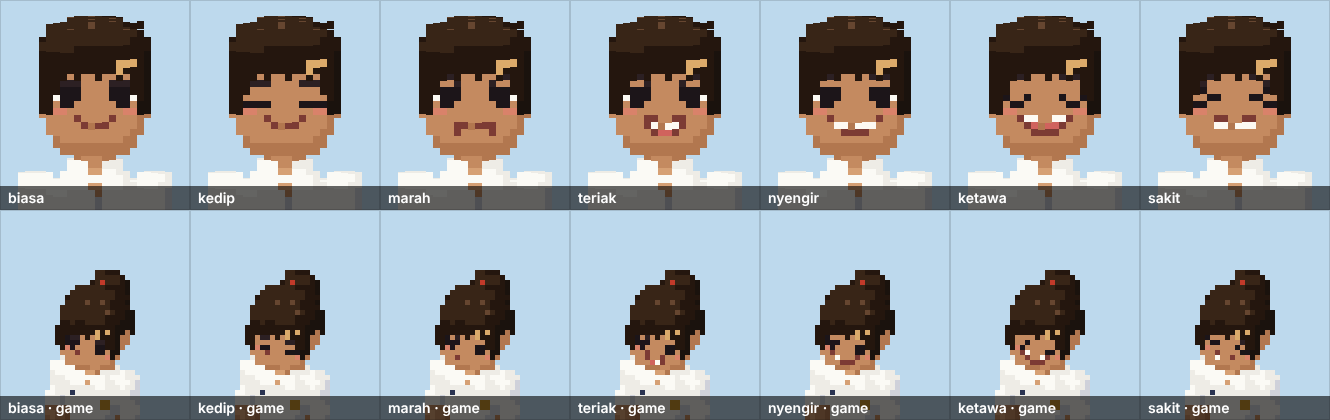
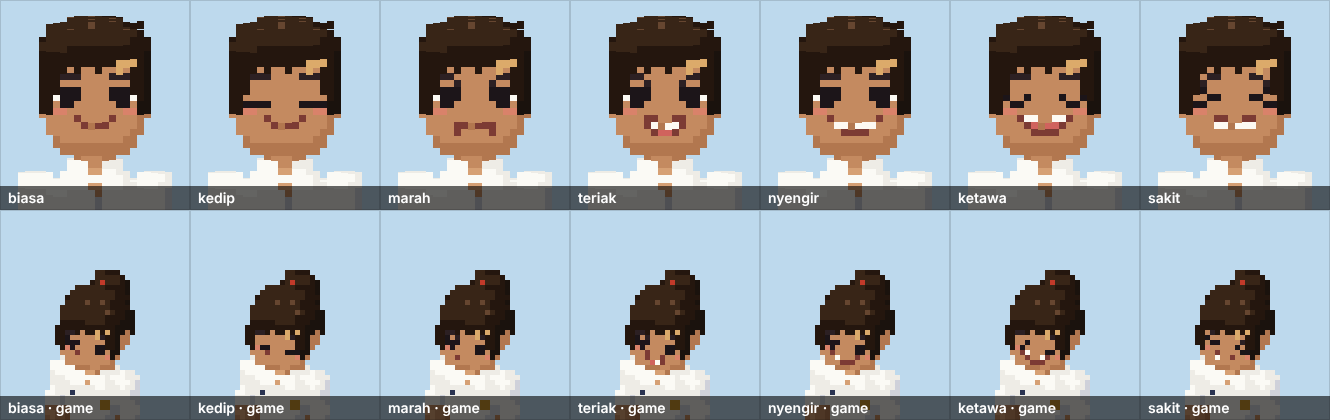
Laras: one empty row between brows and eyes
Brows sat directly on top of the eyes and read as one thick brow. Moved
them up a row and raised the bangs so the brow row stays visible. Added
the spacing rule to PANDUAN-TOKOH.md.

Claude-Session: https://claude.ai/code/session_01WWrFmMTNqpdmTQwapYwS1X

diff --git a/tokoh-voxel/src/laras.js b/tokoh-voxel/src/laras.js
@@ -28,8 +28,8 @@ const F0 = '..............';
 const F = (brow, eyes, mid, mouth) => [F0, F0, F0, ...brow, ...eyes, mid, ...mouth, F0, F0];
 const CH = '.rr........rr.';
 export const FACES = {
-  biasa: F(['..............', '..BBB....BBB..'], ['.KKKK....KKKK.', '.WKKK....KKKW.', '..KK......KK..'], CH, ['....m....m....', '.....mmmm.....', '..............']),
-  kedip: F(['..............', '..BBB....BBB..'], ['..............', '..............', '.KKKK....KKKK.'], CH, ['....m....m....', '.....mmmm.....', '..............']),
+  biasa: F(['..BBB....BBB..', '..............'], ['.KKKK....KKKK.', '.WKKK....KKKW.', '..KK......KK..'], CH, ['....m....m....', '.....mmmm.....', '..............']),
+  kedip: F(['..BBB....BBB..', '..............'], ['..............', '..............', '.KKKK....KKKK.'], CH, ['....m....m....', '.....mmmm.....', '..............']),
   marah: F(['..BB......BB..', '....B....B....'], ['.KKKK....KKKK.', '.WKKK....KKKW.', '..KK......KK..'], CH, ['..............', '....mmmmmm....', '....m....m....']),
   teriak: F(['..BB......BB..', '....B....B....'], ['.KKKK....KKKK.', '.WKKK....KKKW.', '..KK......KK..'], CH, ['....mmmmmm....', '....mTTgTm....', '.....mttm.....']),
   nyengir: F(['..BBB....BBB..', '..............'], ['.KKKK....KKKK.', '.WKKK....KKKW.', '..KK......KK..'], CH, ['...m......m...', '....TTgTTT....', '.....mmmm.....']),
@@ -38,7 +38,7 @@ export const FACES = {
 };
 export const EXPRS = Object.keys(FACES);
 
-const FR = [6, 9, 11, 12, 11, 12, 12, 11, 12, 12, 11, 12, 9, 6];   // poni pendek berantakan
+const FR = [6, 9, 12, 13, 12, 13, 13, 12, 13, 13, 12, 13, 9, 6];   // poni pendek berantakan, cukup tinggi supaya alis + jarak ke mata kelihatan
 const topZ = (v, x, y) => { for (let z = 24; z >= -20; z--) if (v.has(x, y, z)) return z; return null; };
 function head(o) {
   const v = new Vox();

diff --git a/tokoh-voxel/raka_voxel.html b/tokoh-voxel/raka_voxel.html
@@ -2900,8 +2900,8 @@ const F0 = '..............';
 const F = (brow, eyes, mid, mouth) => [F0, F0, F0, ...brow, ...eyes, mid, ...mouth, F0, F0];
 const CH = '.rr........rr.';
 const FACES = {
-  biasa: F(['..............', '..BBB....BBB..'], ['.KKKK....KKKK.', '.WKKK....KKKW.', '..KK......KK..'], CH, ['....m....m....', '.....mmmm.....', '..............']),
-  kedip: F(['..............', '..BBB....BBB..'], ['..............', '..............', '.KKKK....KKKK.'], CH, ['....m....m....', '.....mmmm.....', '..............']),
+  biasa: F(['..BBB....BBB..', '..............'], ['.KKKK....KKKK.', '.WKKK....KKKW.', '..KK......KK..'], CH, ['....m....m....', '.....mmmm.....', '..............']),
+  kedip: F(['..BBB....BBB..', '..............'], ['..............', '..............', '.KKKK....KKKK.'], CH, ['....m....m....', '.....mmmm.....', '..............']),
   marah: F(['..BB......BB..', '....B....B....'], ['.KKKK....KKKK.', '.WKKK....KKKW.', '..KK......KK..'], CH, ['..............', '....mmmmmm....', '....m....m....']),
   teriak: F(['..BB......BB..', '....B....B....'], ['.KKKK....KKKK.', '.WKKK....KKKW.', '..KK......KK..'], CH, ['....mmmmmm....', '....mTTgTm....', '.....mttm.....']),
   nyengir: F(['..BBB....BBB..', '..............'], ['.KKKK....KKKK.', '.WKKK....KKKW.', '..KK......KK..'], CH, ['...m......m...', '....TTgTTT....', '.....mmmm.....']),
@@ -2910,7 +2910,7 @@ const FACES = {
 };
 const EXPRS = Object.keys(FACES);
 
-const FR = [6, 9, 11, 12, 11, 12, 12, 11, 12, 12, 11, 12, 9, 6];   // poni pendek berantakan
+const FR = [6, 9, 12, 13, 12, 13, 13, 12, 13, 13, 12, 13, 9, 6];   // poni pendek berantakan, cukup tinggi supaya alis + jarak ke mata kelihatan
 const topZ = (v, x, y) => { for (let z = 24; z >= -20; z--) if (v.has(x, y, z)) return z; return null; };
 function head(o) {
   const v = new Vox();

diff --git a/tokoh-voxel/PANDUAN-TOKOH.md b/tokoh-voxel/PANDUAN-TOKOH.md
@@ -31,6 +31,9 @@ Panduan ini merangkum aturan yang sudah disetujui favian untuk tokoh voxel halus
 - **Hidung** menonjol 1 voxel di x 7, y -1..0, setinggi 2-3 baris. **Mulut harus tepat di bawah hidung.** Jangan ada
   baris kosong di antara hidung dan baris mulut paling atas. Kalau ada, mulut terlihat terlalu turun ke dagu
   (kasus Nadia, sudah diperbaiki).
+- **Alis dan mata harus berjarak 1 baris kosong** (wajah biasa/kedip/nyengir/ketawa). Alis yang menempel langsung di
+  atas mata terbaca sebagai alis super tebal (kasus Laras, sudah diperbaiki). Poni harus cukup tinggi supaya baris alis
+  tidak tertutup.
 - Mata 2-3 baris. Baris putih (`W`) di sisi luar membuat mata terbaca dari jauh. Pipi merah memakai bahan satu warna.
 - Semua tokoh wajib punya 7 ekspresi: `biasa, kedip, marah, teriak, nyengir, ketawa, sakit`. `expr.js` memilihnya otomatis dari gerakan.
 - Ciri khusus dilukis di peta wajah, misalnya bekas luka memotong alis (Arga), plester (Rani), atau lesung pipit.
